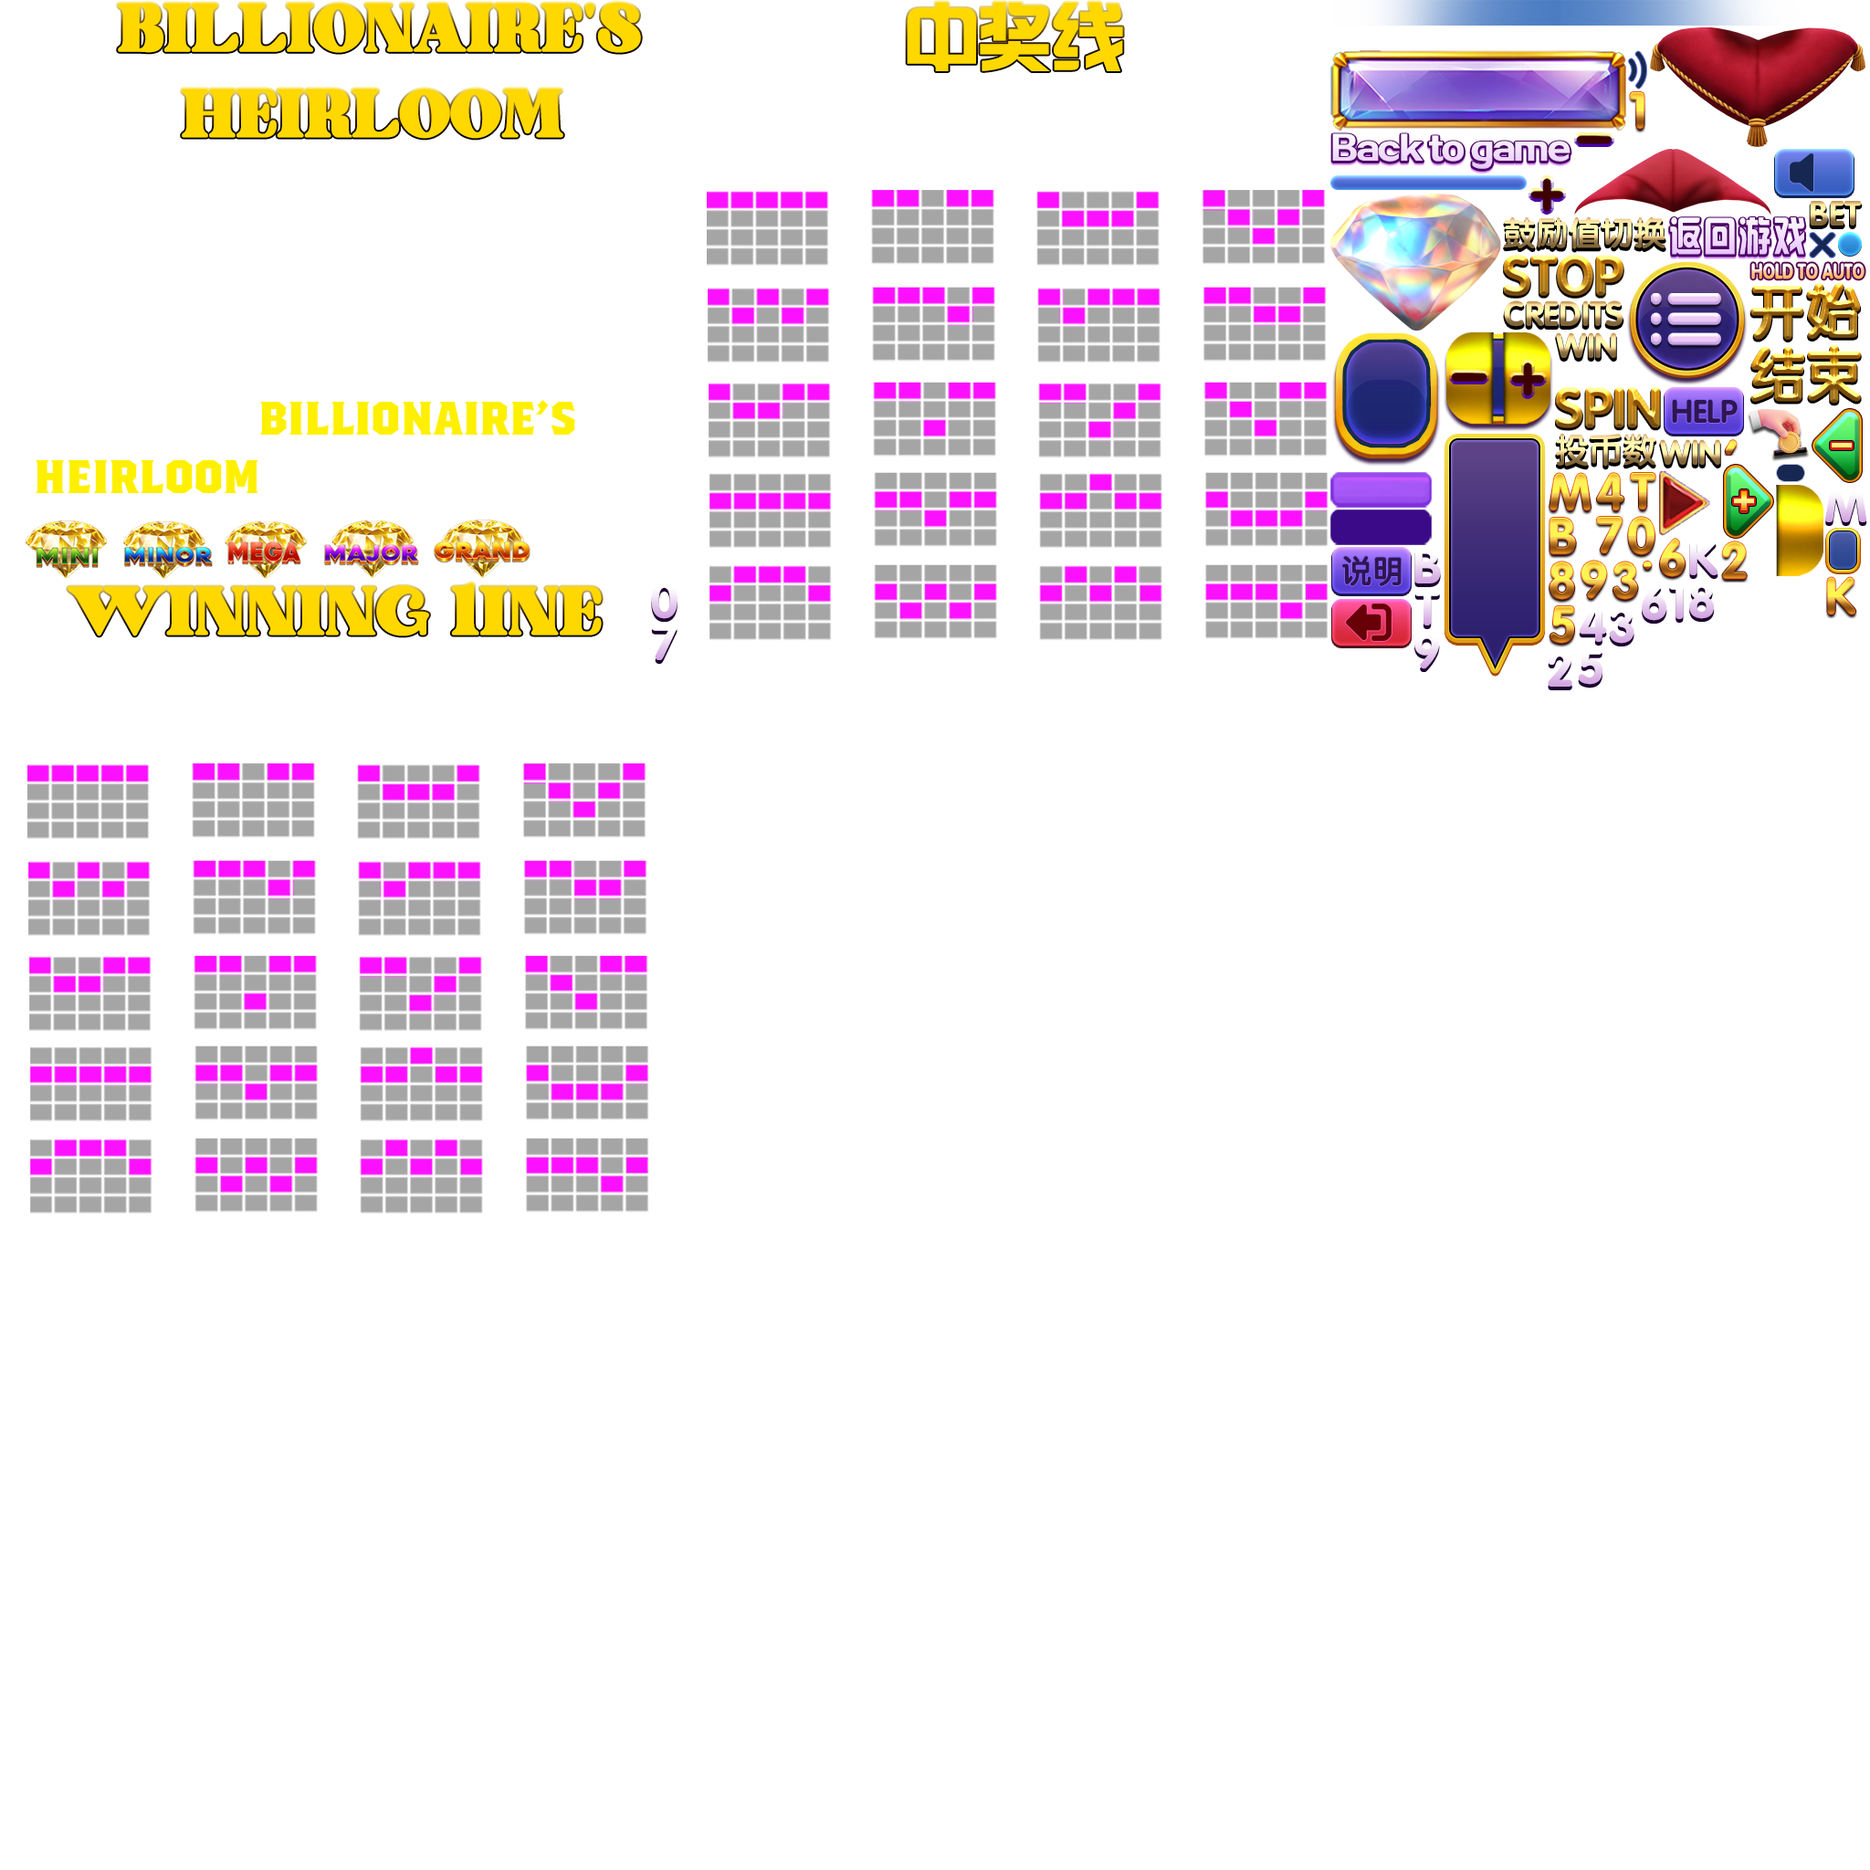
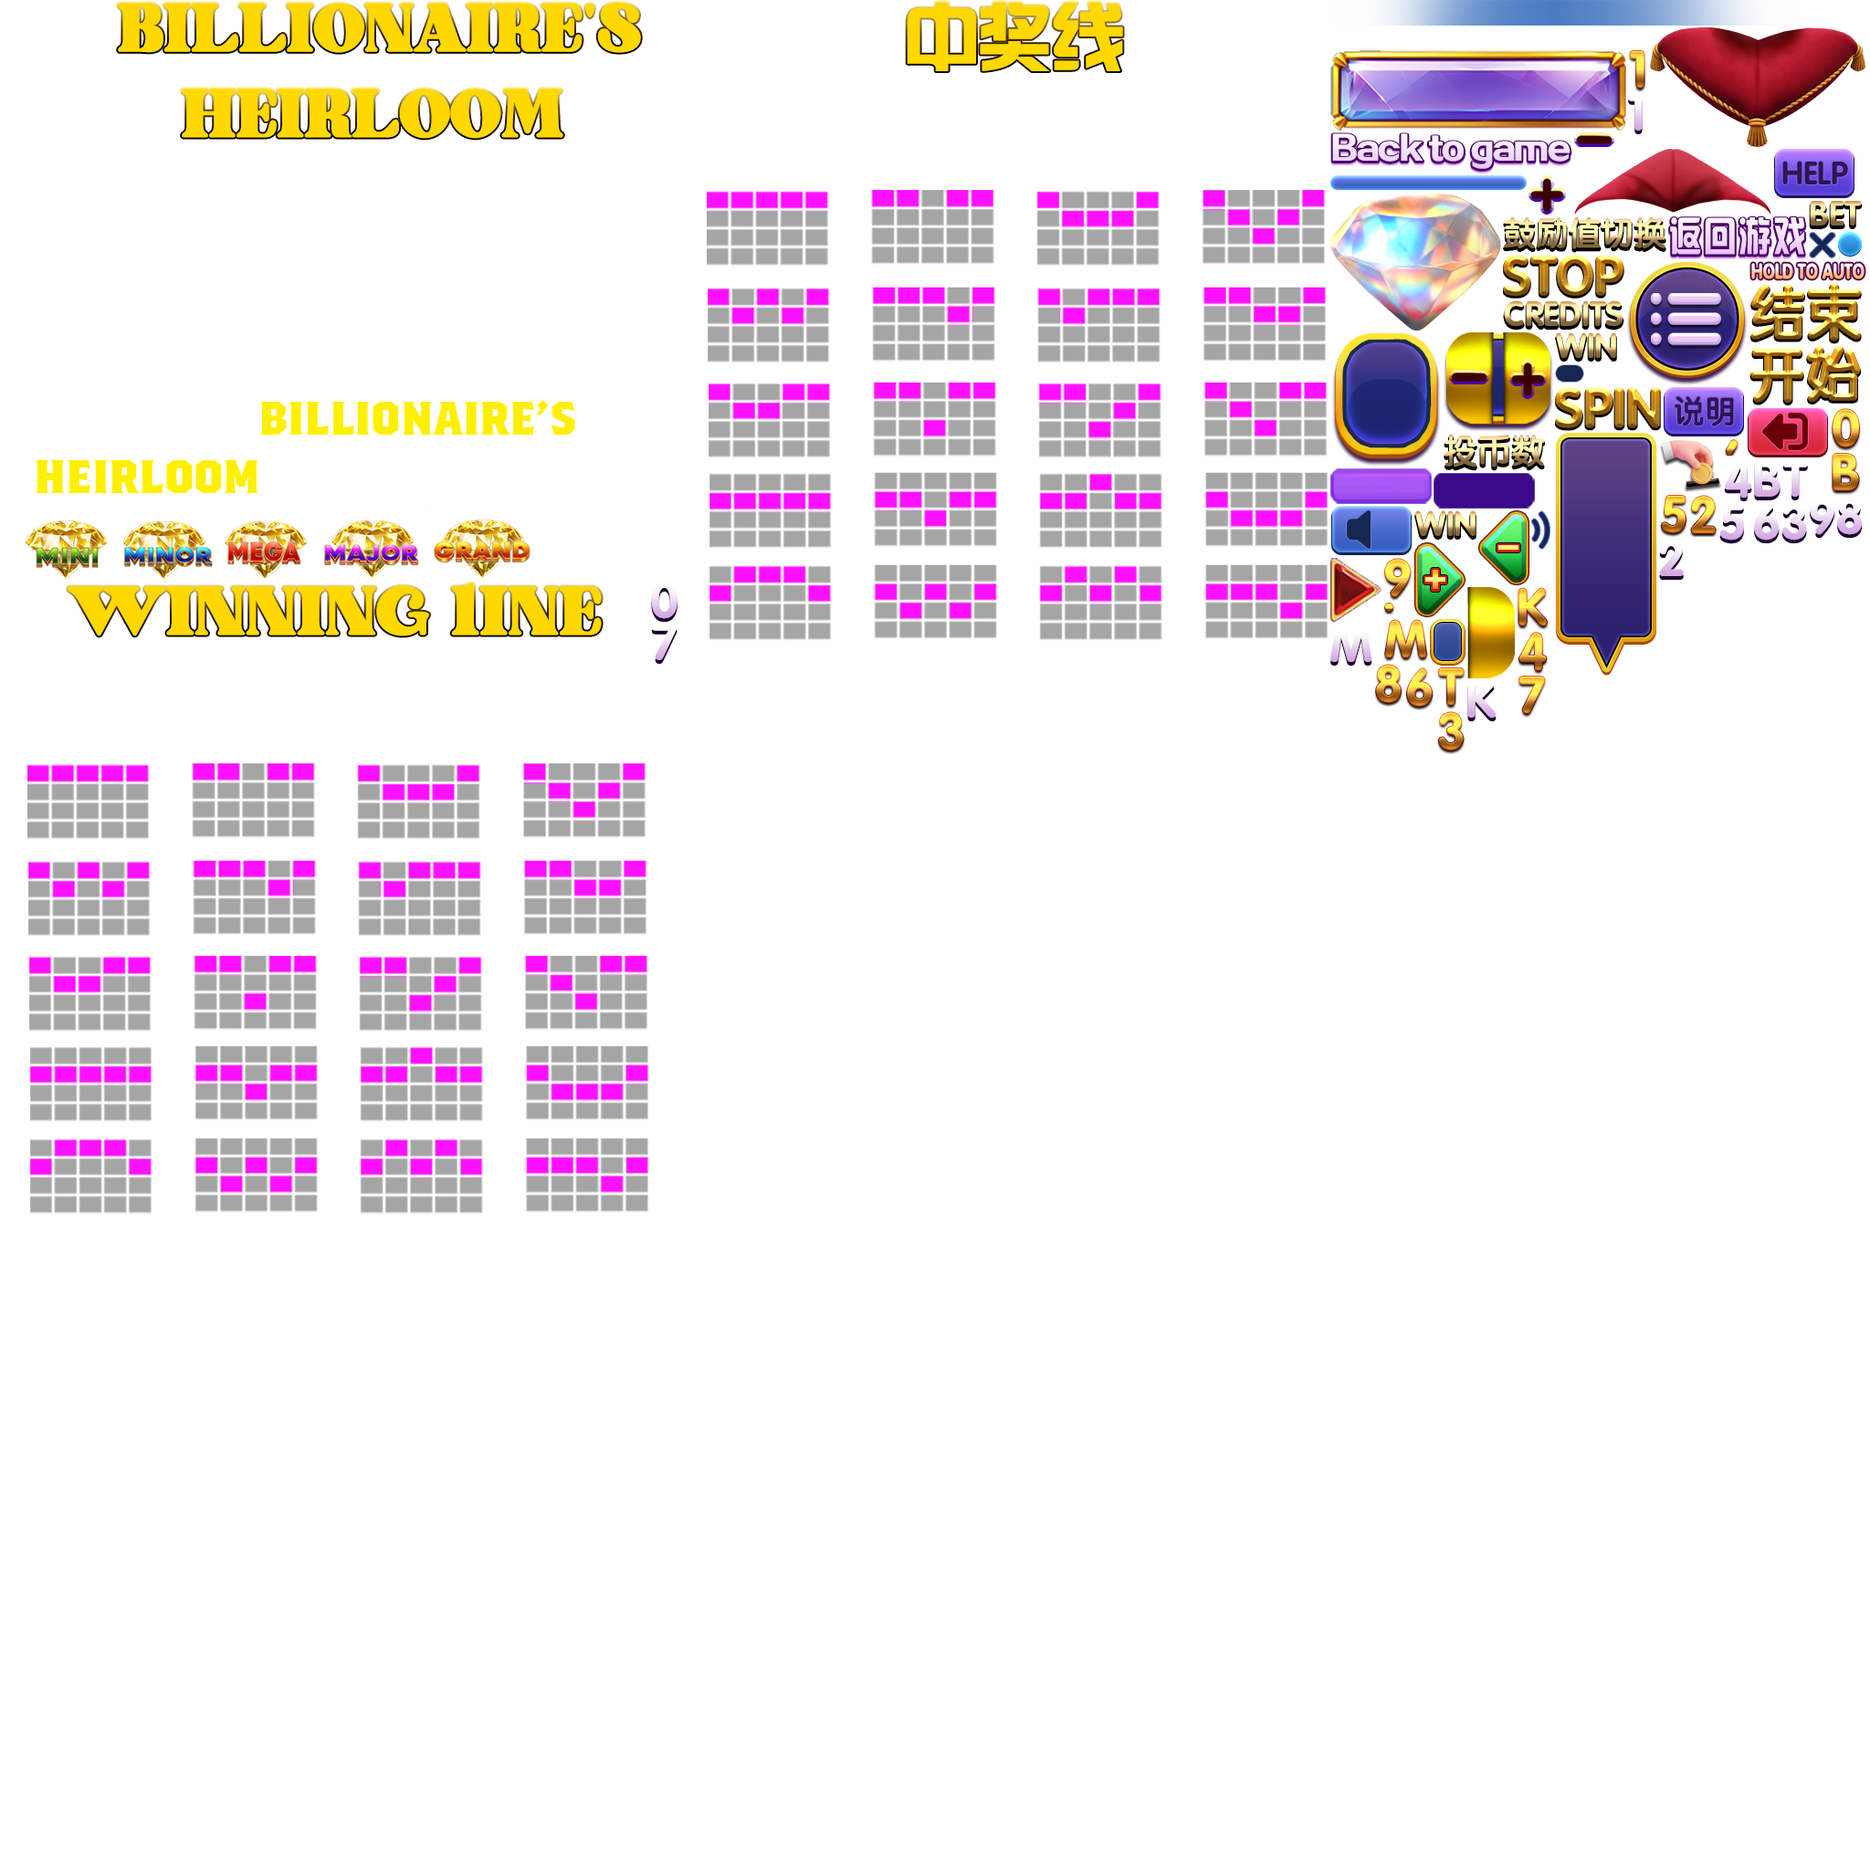
上传UI修改

Changed region(s): [[0.6875, 0.1562, 1.0, 0.4062], [0.9375, 0.0625, 1.0, 0.125], [0.875, 0.0312, 0.9062, 0.0625]]

diff --git a/Assets/HotFix/Games/Cai Fu Zhi Jia 3997/Controller/SingleReelController.cs b/Assets/HotFix/Games/Cai Fu Zhi Jia 3997/Controller/SingleReelController.cs
@@ -8,9 +8,14 @@ namespace CaiFuZhiJia_3997
     public class SingleReelController
     {
         private readonly int _wheelIndex; // 当前滚轴索引
+
         private readonly GComponent _wheelRootNode; // 滚轴的根节点 elementBox
-        private WheelState _reelState = WheelState.None; // 当前滚轴的状态
-        private Coroutine _rollCoroutine;
+        // private WheelState _reelState = WheelState.None; // 当前滚轴的状态
+        // private Coroutine _rollCoroutine;
+
+        private readonly Transition _rollTransition;
+        private Transition _backTransition;
+        private Transition _resetTransition;
 
         /// <summary>滚轴上的所有图标信息List</summary>
         public readonly List<GComponent> RollElements = new List<GComponent>();
@@ -18,13 +23,16 @@ namespace CaiFuZhiJia_3997
         /// <summary>滚轴上所有的文本组件</summary>
         public readonly List<GTextField> RewardTexts = new List<GTextField>();
 
-        /// <summary>临时存储滚轴的位置</summary>
+        // /// <summary>临时存储滚轴的位置</summary>
         private readonly List<float> _elementStartPosList = new List<float>();
 
         public SingleReelController(GComponent wheelRootNode, int wheelIndex)
         {
             _wheelRootNode = wheelRootNode;
             _wheelIndex = wheelIndex;
+            _rollTransition = _wheelRootNode.GetTransition("roll");
+            _backTransition = _wheelRootNode.GetTransition("back");
+            _resetTransition = _wheelRootNode.GetTransition("reset");
             InitReel();
         }
 
@@ -47,27 +55,61 @@ namespace CaiFuZhiJia_3997
 
         public void StartRoll(MonoHelper monoHelper, float speed)
         {
-            if (_reelState == WheelState.Roll) return;
-            _reelState = WheelState.Roll;
-            if (_rollCoroutine != null) monoHelper.StopCoroutine(_rollCoroutine);
-            _rollCoroutine = monoHelper.StartCoroutine(RollCoroutine(speed));
+            // if (_reelState == WheelState.Roll) return;
+            // _reelState = WheelState.Roll;
+            // if (_rollCoroutine != null) monoHelper.StopCoroutine(_rollCoroutine);
+            // _rollCoroutine = monoHelper.StartCoroutine(RollCoroutine(speed));
+            // _rollTransition.repeatCount = 0;
+            _rollTransition.timeScale = speed;
+            // _rollTransition.Play();
+            PlayWithLoops();
         }
 
 
         public void StopRoll(MonoHelper monoHelper, List<int> winedIndexList)
         {
-            if (_reelState != WheelState.Roll) return;
-            _reelState = WheelState.Stop;
-            if (_rollCoroutine != null) monoHelper.StopCoroutine(_rollCoroutine);
-            ResetReelPos();
-            if (!winedIndexList.Contains(_wheelIndex))
+            // if (_reelState != WheelState.Roll) return;
+            // _reelState = WheelState.Stop;
+            _rollTransition.Stop();
+            _resetTransition.Play();
+
+            // ResetReelPos();
+            if (winedIndexList.Contains(_wheelIndex))
             {
-                _wheelRootNode.GetChild("rollElement_4").asCom.visible = false;
+                _backTransition.Play();
             }
-            else
+            // if (_rollCoroutine != null) monoHelper.StopCoroutine(_rollCoroutine);
+            // if (!winedIndexList.Contains(_wheelIndex))
+            // {
+            //     // ResetReelPos();
+            //     _rollTransition.Stop();
+            //     _wheelRootNode.GetChild("rollElement_4").asCom.visible = false;
+            // }
+            // else
+            // {
+            //     _rollTransition.Stop();
+            //     _backTransition.Play();
+            //     // _rollCoroutine = monoHelper.StartCoroutine(BounceCoroutine());
+            // }
+        }
+
+
+        void PlayWithLoops()
+        {
+            int playCount = 0;
+            int maxLoops = 3;
+            _rollTransition.Play(() =>
             {
-                // _rollCoroutine = monoHelper.StartCoroutine(BounceCoroutine());
-            }
+                playCount++;
+                if (playCount < maxLoops)
+                {
+                    _rollTransition.Play(); // 再次播放
+                }
+                else
+                {
+                    playCount = 0; // 重置
+                }
+            });
         }
 
         void ResetReelPos()
@@ -79,77 +121,26 @@ namespace CaiFuZhiJia_3997
             }
         }
 
-        private IEnumerator RollCoroutine(float speed)
-        {
-            while (_reelState == WheelState.Roll)
-            {
-                for (int i = 0; i < RollElements.Count; i++)
-                {
-                    GComponent elementCom = RollElements[i];
-                    float newY = elementCom.y + speed * Time.deltaTime;
-
-                    if (newY > elementCom.height * 3)
-                    {
-                        newY -= elementCom.height * 4f;
-                    }
-
-                    elementCom.y = newY;
-                }
-
-                yield return null;
-            }
-        }
-
-        #region 无用代码
-
-        // private IEnumerator BounceCoroutine()
+        // private IEnumerator RollCoroutine(float speed)
         // {
-        //     // 记录当前位置
-        //     List<float> currentPositions = new List<float>();
-        //     for (int i = 0; i < RollElements.Count; i++)
+        //     while (_reelState == WheelState.Roll)
         //     {
-        //         currentPositions.Add(RollElements[i].y);
-        //     }
-        //
-        //     // 回弹距离（一个元素高度，向上回弹用负数）
-        //     float bounceDistance = -RollElements[0].height;
-        //
-        //     // 回弹动画
-        //     float bounceDuration = 0.3f;
-        //     float elapsedTime = 0f;
-        //
-        //     while (elapsedTime < bounceDuration)
-        //     {
-        //         elapsedTime += Time.deltaTime;
-        //         float progress = Mathf.Clamp01(elapsedTime / bounceDuration);
-        //
-        //         // 缓动：先快后慢（EaseOutCubic）
-        //         float easedProgress = 1f - Mathf.Pow(1f - progress, 3f);
-        //
         //         for (int i = 0; i < RollElements.Count; i++)
         //         {
-        //             RollElements[i].y = currentPositions[i] + bounceDistance * easedProgress;
+        //             GComponent elementCom = RollElements[i];
+        //             float newY = elementCom.y + speed * Time.deltaTime;
+        //
+        //             if (newY > elementCom.height * 3)
+        //             {
+        //                 newY -= elementCom.height * 4f;
+        //             }
+        //
+        //             elementCom.y = newY;
         //         }
         //
         //         yield return null;
         //     }
-        //
-        //     // 确保最终位置准确
-        //     for (int i = 0; i < RollElements.Count; i++)
-        //     {
-        //         RollElements[i].y = currentPositions[i] + bounceDistance;
-        //     }
-        //
-        //     // 显示中奖元素
-        //     _wheelRootNode.GetChild("rollElement_4").asCom.visible = true;
-        //
-        //     // 延迟后复位
-        //     yield return new WaitForSeconds(0.5f);
-        //     ResetReelPos();
         // }
-
-
-        #endregion
     }
 
     public enum WheelState

diff --git a/Assets/HotFix/Games/Cai Fu Zhi Jia 3997/PopupJackpotGame.cs b/Assets/HotFix/Games/Cai Fu Zhi Jia 3997/PopupJackpotGame.cs
@@ -63,23 +63,23 @@ namespace CaiFuZhiJia_3997
         /// <summary>
         /// 每个滚轴的旋转速度
         /// </summary>
-        private readonly List<int> _moveSpeedList = new List<int>()
+        private readonly List<float> _moveSpeedList = new List<float>()
         {
-            150,
-            180,
-            230,
-            200,
-            160,
-            330,
-            310,
-            400,
-            120,
-            190,
-            130,
-            150,
-            260,
-            300,
-            250
+            0.72f,
+            0.65f,
+            0.83f,
+            0.84f,
+            0.85f,
+            1f,
+            0.65f,
+            0.77f,
+            0.82f,
+            0.75f,
+            0.66f,
+            0.8f,
+            0.58f,
+            0.65f,
+            0.67f
         };
 
 
@@ -287,8 +287,6 @@ namespace CaiFuZhiJia_3997
             _monoHelper.StartCoroutine(PlayMultipleRounds());
         }
 
-        // Todo：随机给每个滚轮的两个图标设置奖励；当中奖的时候，从当前滚轴索引中随机出一个中奖的图标；设置指定图标来进行显示
-
         /// <summary>
         /// 本局是否中奖
         /// </summary>
@@ -349,6 +347,7 @@ namespace CaiFuZhiJia_3997
                 int selectedValue = _bonusIsNotZeroList[randomIndex];
 
                 _winSpineIndexList.Add(selectedValue);
+                // 修改
                 _canSpinReelIndexList.Remove(selectedValue);
                 // 移除已选中的，保证下次不重复
                 _bonusIsNotZeroList.RemoveAt(randomIndex);
@@ -510,7 +509,7 @@ namespace CaiFuZhiJia_3997
                     _singleReelControllers[reelIndex].StartRoll(_monoHelper, _moveSpeedList[i]);
                 }
 
-                yield return new WaitForSeconds(5f);
+                yield return new WaitForSeconds(4f);
 
                 for (int i = 0; i < _canSpinReelIndexList.Count; i++)
                 {
@@ -530,16 +529,21 @@ namespace CaiFuZhiJia_3997
                     _singleReelControllers[reelIndex].StartRoll(_monoHelper, _moveSpeedList[i]);
                 }
 
-                yield return new WaitForSeconds(5f);
+                yield return new WaitForSeconds(4f);
 
-
+                GetCurrentWinningDiamondList();
                 for (int i = 0; i < _canSpinReelIndexList.Count; i++)
                 {
                     int reelIndex = _canSpinReelIndexList[i];
                     _singleReelControllers[reelIndex].StopRoll(_monoHelper, _winSpineIndexList);
                 }
 
-                GetCurrentWinningDiamondList();
+                // for (int i = 0; i < _winSpineIndexList.Count; i++)
+                // {
+                //     if(_canSpinReelIndexList.Contains(i))
+                //         _canSpinReelIndexList.Remove(i);
+                // }
+                // GetCurrentWinningDiamondList();
                 ShowWinningSpine();
                 // 重置局数
                 _freeCountText.text = "3";

diff --git a/Assets/HotFix/Games/Cai Fu Zhi Jia 3997/PageGameMain.cs b/Assets/HotFix/Games/Cai Fu Zhi Jia 3997/PageGameMain.cs
@@ -486,13 +486,15 @@ namespace CaiFuZhiJia_3997
                         break;
                     case PanelEvent.ColUpButtonClick:
                         int col = (int)res.value;
-                        _monoHelper.StartCoroutine(_slotMachineCtrl.NudgeReelOneStep(col, null, false, ReelNudgeDirection.Up));
+                        _monoHelper.StartCoroutine(
+                            _slotMachineCtrl.NudgeReelOneStep(col, null, false, ReelNudgeDirection.Up));
                         break;
                     case PanelEvent.ColDownButtonClick:
-                            col = (int)res.value;
-                        _monoHelper.StartCoroutine(_slotMachineCtrl.NudgeReelOneStep(col, null, false, ReelNudgeDirection.Down));
+                        col = (int)res.value;
+                        _monoHelper.StartCoroutine(
+                            _slotMachineCtrl.NudgeReelOneStep(col, null, false, ReelNudgeDirection.Down));
                         break;
-               }
+                }
         }
 
         /// <summary>
@@ -1489,7 +1491,7 @@ namespace CaiFuZhiJia_3997
                     });
 
                 yield return new WaitUntil(() => isNext == true);
-
+                Debug.LogError("动画播放完成，触发");
                 isNext = false;
                 PageManager.Instance.OpenPageAsync(PageName.CaiFuZhiJiaPopupJackpotGame,
                     new EventData<Dictionary<string, object>>("", new Dictionary<string, object> { }),

diff --git a/Assets/HotFix/Games/Slot Zhu Zai Jin Bi 1700/PageGameMain.cs b/Assets/HotFix/Games/Slot Zhu Zai Jin Bi 1700/PageGameMain.cs
@@ -492,7 +492,7 @@ namespace SlotZhuZaiJinBi1700
             string errMsg = "";
 
             //展会模式
-            if (ApplicationSettings.Instance.IsExpoMode())
+            if (ApplicationSettings.Instance.IsExpoMode()&&MainModel.Instance.isExhibitionModeMode)
             {
                 string currentDeck = GetCurrentVisibleDeckRowCol();
                 if (!string.IsNullOrEmpty(currentDeck))

diff --git a/Assets/HotFix/Games/Cai Fu Zhi Jia 3997/PopupJackpotTrigger.cs b/Assets/HotFix/Games/Cai Fu Zhi Jia 3997/PopupJackpotTrigger.cs
@@ -182,6 +182,7 @@ namespace CaiFuZhiJia_3997
                 Timers.inst.Add(7, 1, (obj) =>
                 {
                     CloseSelf(null);
+                    // PageManager.Instance.OpenPage(PageName.CaiFuZhiJiaPopupJackpotGame);
                 });
             }));
         }
